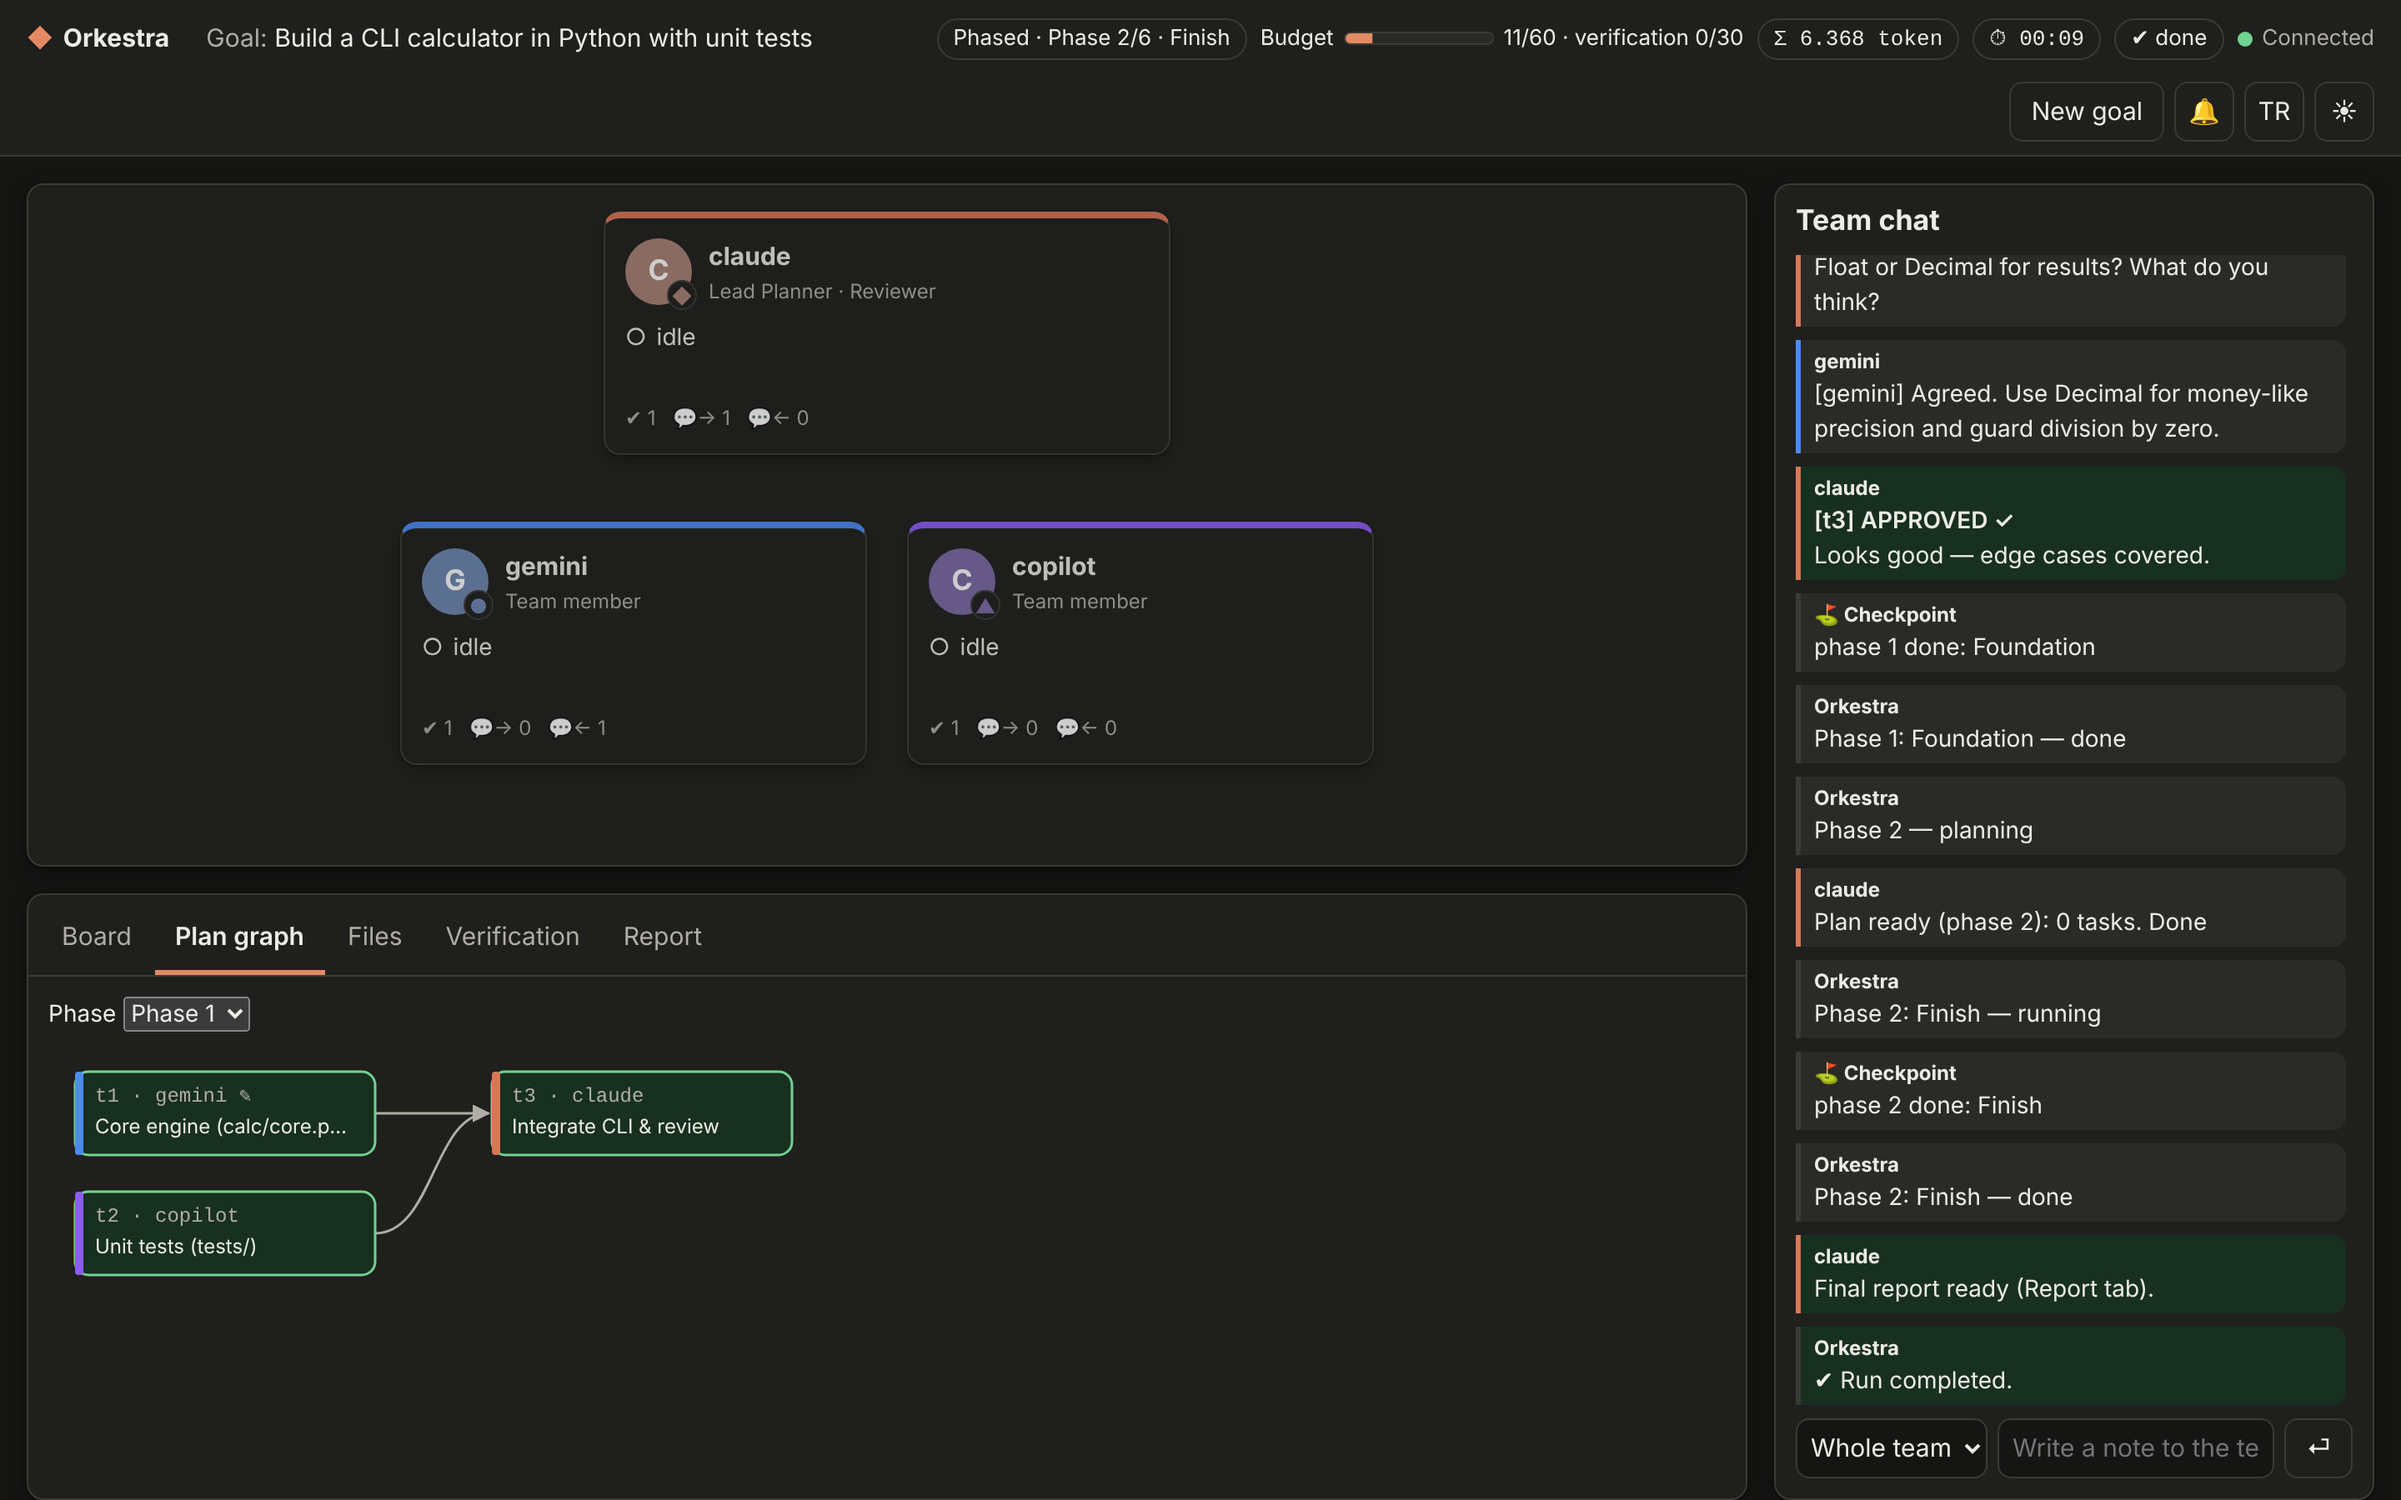
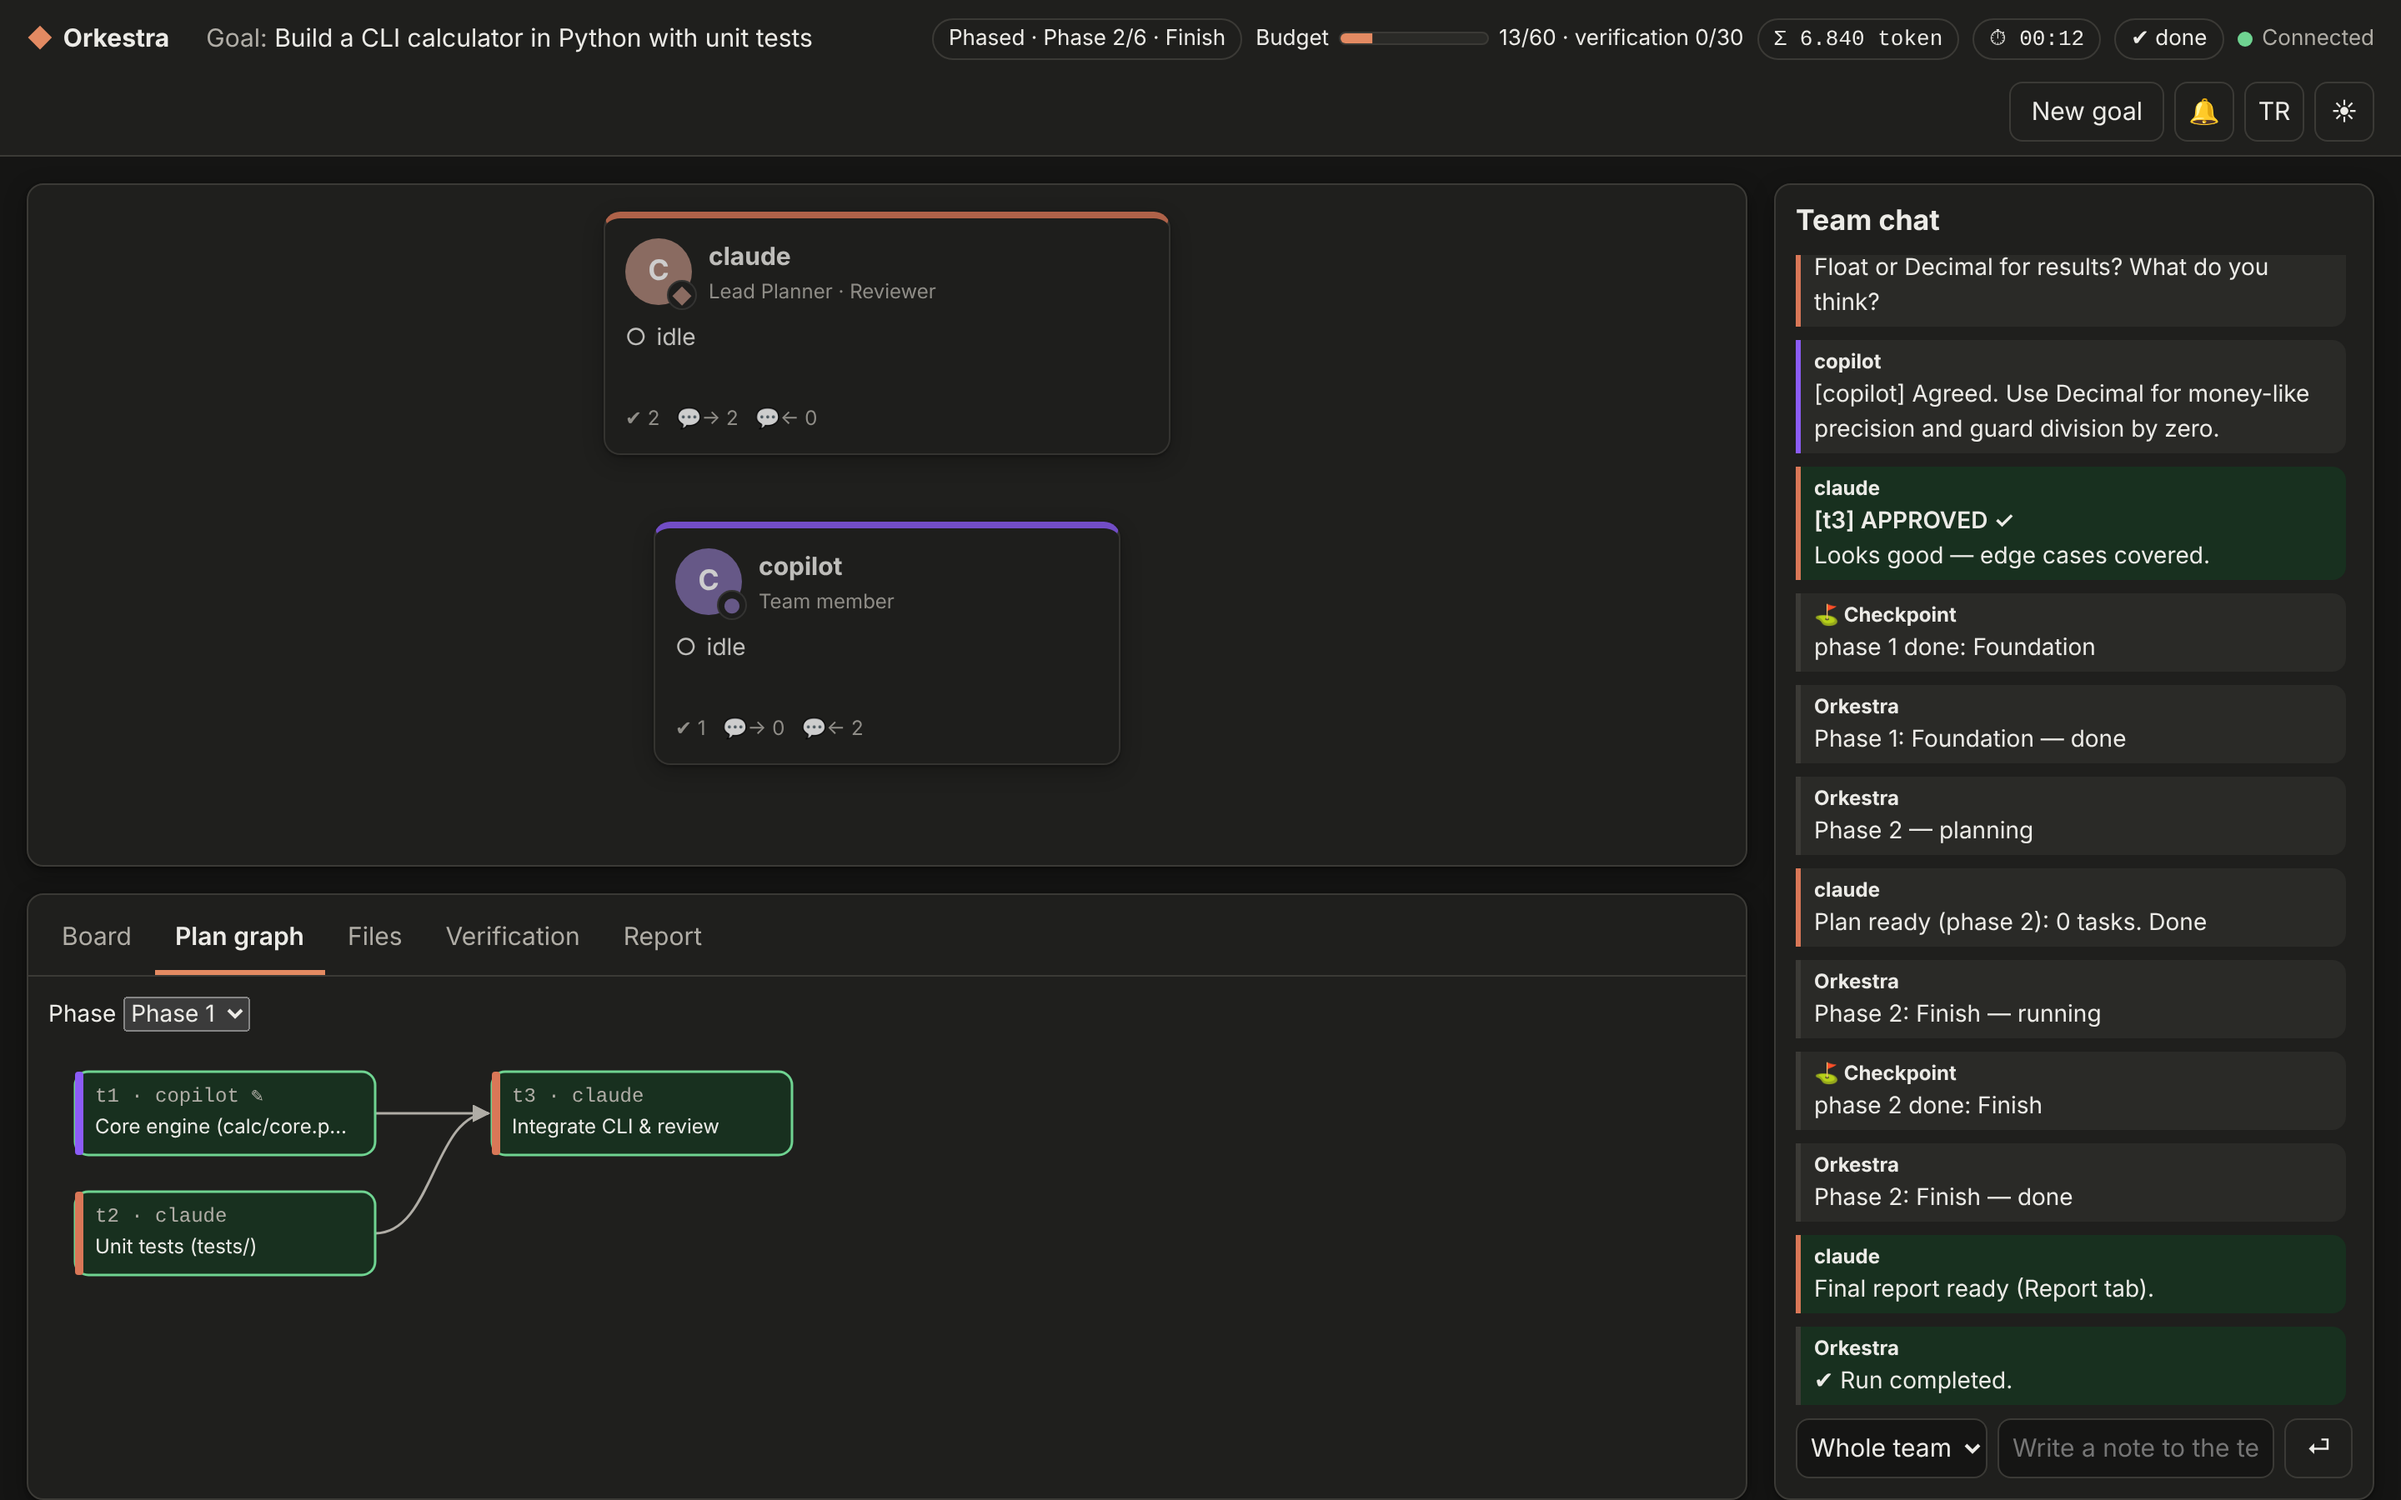
Terminal başlığı yalnızca açık ajanları yazsın; ekran görüntüleri Claude + Copilot ekibiyle yenilendi
Claude-Session: https://claude.ai/code/session_01RPWkPABmBcLX8RTpcT9FXT

diff --git a/orkestra/terminal.py b/orkestra/terminal.py
@@ -497,7 +497,12 @@ class TerminalApp:
         o.line("")
         o.line(f"  ◆ Orkestra {__version__} — çok-ajanlı proje geliştirme terminali" + (" (sahte ajanlar)" if self.mock else ""),
                "bold")
-        o.line("    Claude planlar ve denetler · Gemini ve Copilot ekipte · her şey senin hesaplarınla", "dim")
+        st = self.cfg.settings
+        lead = st.planner.capitalize()
+        team = [n.capitalize() for n in self.cfg.agents if n not in (st.planner, st.reviewer)]
+        team_txt = (" ve ".join([", ".join(team[:-1]), team[-1]]) if len(team) > 1 else team[0]) + " ekipte" if team \
+            else "ekipte başka ajan yok"
+        o.line(f"    {lead} planlar ve denetler · {team_txt} · her şey senin hesaplarınla", "dim")
         o.line("")
         self.cmd_hesaplar([], short=True)
         o.line("")

diff --git a/tests/test_katalog.py b/tests/test_katalog.py
@@ -198,6 +198,8 @@ class TerminalTeamCommandTests(unittest.TestCase):
         app.handle("/cikar claude-kodcu")
         self.assertNotIn("claude-kodcu", app.cfg.agents)
         app.handle("/ekle yok-boyle")
+        app.banner()
+        self.assertIn("Claude planlar ve denetler · Copilot ekipte", self.out.getvalue())   # kapalı Gemini yazılmaz
         out = self.out.getvalue()
         for frag in ("Eklenebilir yapay zekâlar", "✔ claude-kodcu ekibe eklendi", "✔ gemini kapatıldı",
                      "○ kapalı", "✔ claude-kodcu ekipten çıkarıldı", "Katalogda 'yok-boyle' yok"):

diff --git a/README.en.md b/README.en.md
@@ -8,9 +8,9 @@ Claude plans the work and reviews every result. Tasks are split up and handed to
 >
 > Note: the terminal app currently speaks **Turkish**; the web workspace has an **EN/TR** switch.
 
-![Web workspace: Claude consults Gemini while tasks move across the board](docs/en/office.png)
+![Web workspace: Claude consults Copilot while tasks move across the board](docs/en/office.png)
 
-<sub>Screenshots were taken with mock agents (`--mock`), which use no subscription quota.</sub>
+<sub>Screenshots were taken with mock agents (`--mock`, Claude + Copilot team), which use no subscription quota.</sub>
 
 ## Why?
 
